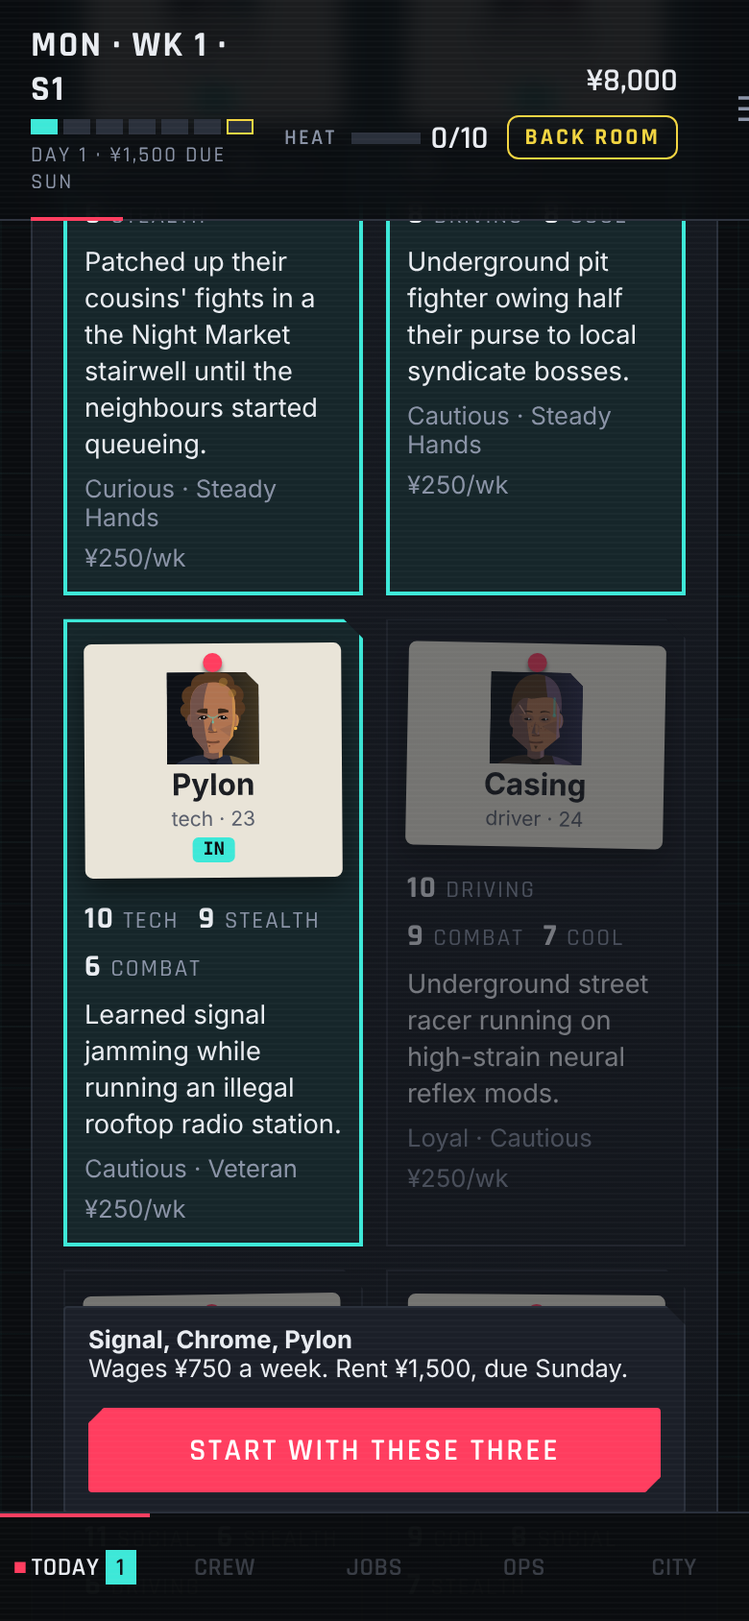
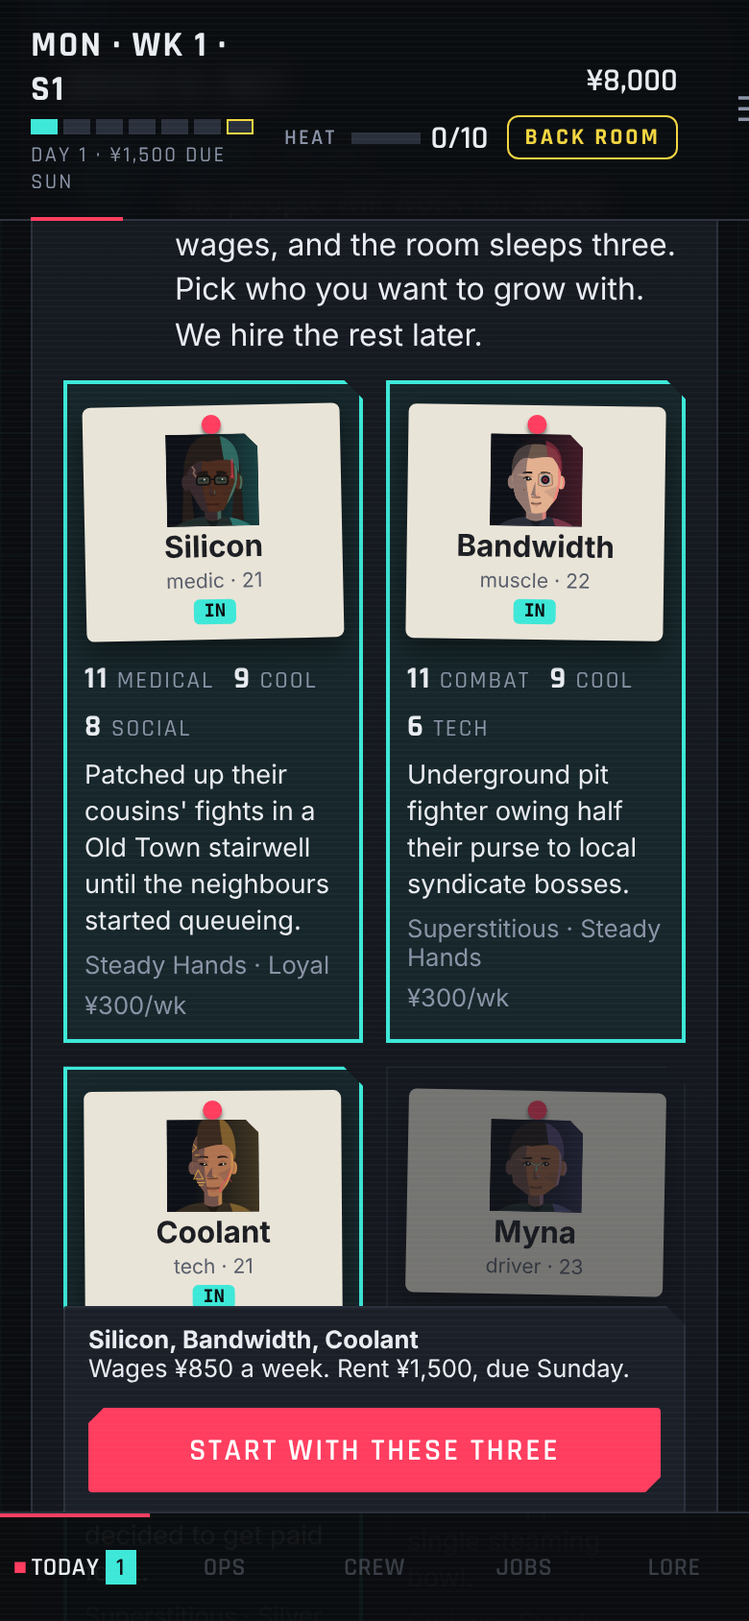
Ops second in the tabs; City renamed Lore, its Lore section renamed History
Tabs: Today, Ops, Crew, Jobs, Lore. Lore's sections: Districts, Clients, Who's who, History.
Screenshots re-taken.

diff --git a/src/ui/app.js b/src/ui/app.js
@@ -73,10 +73,10 @@ import { freelancerAsCrew, shareOf, MAX_FREELANCERS_PER_JOB } from '../core/free
 let state;
 let screen = 'inbox';
 let cityDistrict = null; // district card open on the Ops map
-let cityTab = 'districts'; // which City section is showing (CITY_TABS)
-let loreDistrict = null; // the district read in full on City › Districts
+let cityTab = 'districts'; // which Lore section is showing (LORE_TABS)
+let loreDistrict = null; // the district read in full on Lore › Districts
 let cityCardDue = false; // scroll a newly opened district card into view after drawing
-let loreDue = false; // scroll City › Districts to the district opened from Ops
+let loreDue = false; // scroll Lore › Districts to the district opened from Ops
 let cityMapDue = false; // scroll the map into view after drawing (a crew's district picked in the list)
 let openMessageId = null;
 let sidePlan = null; // { taskId, crew: [] } while planning a side task (Jobs tab)
@@ -161,10 +161,10 @@ function onClick(e) {
     // A crew's district in the list: light it on the map (scrolled into view) and narrow the list to it.
     case 'city-show': cityDistrict = cityDistrict === id ? null : id; cityMapDue = !!cityDistrict; break;
     case 'city-tab': cityTab = id; break;
-    // City › Districts: open one district's full write-up (tap again to fold it); from the Ops card, go there.
+    // Lore › Districts: open one district's full write-up (tap again to fold it); from the Ops card, go there.
     case 'ops-district': screen = 'ops'; cityDistrict = id; cityMapDue = true; break;
     case 'lore-district': loreDistrict = loreDistrict === id ? null : id; break;
-    case 'about-district': screen = 'city'; cityTab = 'districts'; loreDistrict = id; loreDue = true; break;
+    case 'about-district': screen = 'lore'; cityTab = 'districts'; loreDistrict = id; loreDue = true; break;
     case 'open-message': {
       openMessageId = id;
       const msg = state.inbox.find((m) => m.id === id);
@@ -577,10 +577,10 @@ function render() {
 
     <nav class="nav" aria-label="Main">
       ${navButton('inbox', 'Today', unread, 'unread')}
+      ${navButton('ops', 'Ops', calls(), 'calling')}
       ${navButton('crew', 'Crew')}
       ${navButton('jobs', 'Jobs', state.jobs.length, 'open')}
-      ${navButton('ops', 'Ops', calls(), 'calling')}
-      ${navButton('city', 'City')}
+      ${navButton('lore', 'Lore')}
     </nav>
 
     <main class="main ${wide ? 'main--wide' : ''} ${!state.activeMission && screen === 'jobs' && plan ? 'main--split' : ''}">${state.activeMission ? renderMission() : `${keptBanner()}${renderScreen()}`}</main>
@@ -687,7 +687,7 @@ function renderDayCue(cue) {
     </div>`;
 }
 
-// While the founders are being picked there's nothing to see on Crew, Jobs or City: those tabs are
+// While the founders are being picked there's nothing to see on Crew, Jobs, Ops or Lore: those tabs are
 // off, Today shows the pick, and Save stays open so another slot can still be loaded.
 const FOUNDING_TABS = ['inbox', 'settings'];
 
@@ -713,7 +713,7 @@ function renderScreen() {
   }
   if (screen === 'jobs') return sidePlan ? renderSidePlan() : renderJobs();
   if (screen === 'ops') return renderOpsScreen();
-  if (screen === 'city') return renderCity();
+  if (screen === 'lore') return renderLore();
   if (screen === 'settings') return renderSettings();
   return '';
 }
@@ -1859,12 +1859,12 @@ function renderSidePlan() {
 const trustTone = (t) => (t >= 60 ? 'good' : t >= 40 ? 'mid' : 'bad');
 const TRUST_NOTE = 'Finished jobs build trust; aborts and "client unhappy" choices cost it. High trust pays up to 15% more; below 20, a client stops calling. Trust drifts back towards neutral each week.';
 
-/** Jobs tab: the clients as a strip of chips under the board. Full write-ups are on City. */
+/** Jobs tab: the clients as a strip of chips under the board. Full write-ups are on Lore. */
 function renderClients() {
   return `
       <h2>Clients</h2>
       <div class="infoline"><p class="muted small">Where you stand with each.</p>${infoButton('clients', 'About client trust')}</div>
-      ${infoText('clients', `${TRUST_NOTE} Who they are: City tab.`)}
+      ${infoText('clients', `${TRUST_NOTE} Who they are: the Lore tab.`)}
       <ul class="clientstrip">
         ${CLIENTS.map((c) => {
           const t = trustOf(state, c.id);
@@ -1873,7 +1873,7 @@ function renderClients() {
       </ul>`;
 }
 
-/** City tab: who each client is, with where you stand. */
+/** Lore › Clients: who each client is, with where you stand. */
 function renderClientCards() {
   return `
       <ul class="list list--plain">
@@ -2421,12 +2421,12 @@ function districtCard(key) {
             : '<p class="small muted">Nobody here is hiring crews like yours yet.</p>';
       })()}
       ${activeRumour(state)?.district === key ? `<p class="talk-tag">Street talk: ${esc(activeRumour(state).text)}</p>` : ''}
-      <button class="linkbtn citycard__about" data-action="about-district" data-id="${esc(key)}">About ${esc(NAMES.districtsInText?.[key] ?? cityName(key))} on City ›</button>
+      <button class="linkbtn citycard__about" data-action="about-district" data-id="${esc(key)}">About ${esc(NAMES.districtsInText?.[key] ?? cityName(key))} on Lore ›</button>
     </div>`;
 }
 
 /**
- * City › Districts (2026-11-06, when Ops became its own tab): the city's places as a book, each
+ * Lore › Districts (2026-11-06, when Ops became its own tab and City became Lore): the city's places as a book, each
  * led by its picture (ui/districtArt.js), with the write-up a tap away. Locked districts are a
  * line each, with what the street says about them.
  */
@@ -2483,11 +2483,11 @@ function renderOpsScreen() {
     </section>`;
 }
 
-/** City sections: the city as a book (the live map is on Ops). */
-const CITY_TABS = { districts: 'Districts', clients: 'Clients', factions: "Who's who", lore: 'Lore' };
+/** Lore's sections: the city as a book (the live map is on Ops). The tab was City until 2026-11-06. */
+const LORE_TABS = { districts: 'Districts', clients: 'Clients', factions: "Who's who", history: 'History' };
 
-function renderCity() {
-  const tab = CITY_TABS[cityTab] ? cityTab : 'districts';
+function renderLore() {
+  const tab = LORE_TABS[cityTab] ? cityTab : 'districts';
   const groups = [...new Set(FACTIONS.map((f) => f.group))];
   const body = {
     districts: renderDistrictLore,
@@ -2506,7 +2506,7 @@ function renderCity() {
           </ul>
         </div>`).join('')}
       </div>`,
-    lore: () => `
+    history: () => `
       <div class="cols2">
       <div>
       <h2>Everyone knows</h2>
@@ -2521,8 +2521,8 @@ function renderCity() {
   return `
     <section class="panel">
       <h1 class="cityhead">${esc(NAMES.city)} <span class="muted">燈籠灣</span> <span class="muted small">2057</span></h1>
-      <div class="subtabs" role="group" aria-label="City sections">
-        ${Object.entries(CITY_TABS).map(([k, label]) => `<button class="subtab ${k === tab ? 'is-on' : ''}" data-action="city-tab" data-id="${k}" aria-pressed="${k === tab}">${esc(label)}</button>`).join('')}
+      <div class="subtabs" role="group" aria-label="Lore sections">
+        ${Object.entries(LORE_TABS).map(([k, label]) => `<button class="subtab ${k === tab ? 'is-on' : ''}" data-action="city-tab" data-id="${k}" aria-pressed="${k === tab}">${esc(label)}</button>`).join('')}
       </div>
       ${body}
     </section>`;

diff --git a/src/ui/districtArt.js b/src/ui/districtArt.js
@@ -1,6 +1,6 @@
 // District pictures (DESIGN.md, 2026-10-28/29; option C of the City map session): a street
 // scene per district, drawn like the portraits: flat colour planes and hard light, the district
-// gang's light from the right, no outlines. Each leads its district's card on City › Districts
+// gang's light from the right, no outlines. Each leads its district's card on Lore › Districts
 // (2026-11-06; it was on the map's district card before Ops had its own tab). Pure strings, no DOM.
 //
 // The Docks: the sky lit red from the right, Lantern Bay across the harbour (Glass Heights'

diff --git a/ART.md b/ART.md
@@ -43,7 +43,7 @@ A street terminal in a wet neon city, after Cyberpunk 2077's interface and Citiz
 - **Gauges:** segmented (4px on, 1px off).
 - **Motion:** a blink, a breathing light, a new-day flash. Nothing loops fast; everything stops for reduced motion.
 - **City map** (`src/ui/citymap.js`, fed by `cityMap()` in `src/ui/app.js`, on the Ops tab since 2026-11-06; rebuilt 2026-11-05 as the command centre's neon map, after the owner's mock-up `drafts/prototypes/command-centre.html`; DESIGN.md): Lantern Bay as a compact tactical map, 330×290, that fits the width and never moves. The island's districts are faceted, straight-edged shapes washed in their gang's light (Brass Anchor sodium `#f2d541`, Red Lantern `#ff3d5f`, Silver Fan violet `#b48cff`, Veridian-Apex cyan `#3de8d8`, Racing Association orange `#ff9a3d`): 9% over `--panel-2`, 15% with a hall of ours, 24% when picked. They meet at 2.5px seams in the page colour, with a faint 9-unit block grid inside; locked districts are hatched in the line colour. The Amber Reach sits in the harbour, the Docks and the Silt on the mainland; HARBOUR in small spaced grey caps. A dashed violet line is the maglev through the Amber Reach; a dotted sodium line is the ferry. No coast outline, no landmarks on the map. Each district's plate is a dark panel (88% page colour, 1px line border, cyan when picked) with the gang's colour as a 16×2 tab, the name in display caps, and one line under it ("⌂ 7 HERE · 2 JOBS · HEAT 4", amber from heat 3, red from 6); locked plates are small, one muted line. **For glancing:** heat is a radial glow round the plate (sodium, amber, red; 20 + 3 × heat units); crews out are face tokens (the portraits in a circle, 14 units, a cyan ring with a soft glow; up to three overlapping, then +n) on a dotted cyan route from their hall, just off the plate; a call rings them sodium with a ring that breathes outwards; side work is a smaller grey-ringed token; a raid warned is a red ring round the hall's plate with a second breathing outwards and a red RAID FRI tag over the plate; street talk is a small blinking sodium square beside the plate. A legend under the map (Crew · Calling · Raid warned · Hall). Only the call and raid rings move (and the picked district's gentle light); everything is still for reduced motion. New districts are one entry in `DISTRICTS` (shape and plate spot). **Crew-out mini maps** (`ui/minimap.js`, 2026-11-06): a 120 × 80 still of the job's site in a 1px line frame, labels hidden; the route walked as a 3-unit cyan line, the rest a dashed grey one; the crew as cyan dots (7 units, a dark edge) clustered where they stand; grey rings on the perch and at the van; a waiting call turns the dots sodium with a sodium ring that breathes outwards (still for reduced motion).
-- **District pictures** (`src/ui/districtArt.js`; on City › Districts since 2026-11-06, each district's card led by its picture): a street scene per district, 720×300, drawn like the portraits (flat planes, hard light, the gang's light from the right, no outlines). One per open district, each with one of your crew in it (hood up, rifle across the back) and its landmarks: the **Docks** (Red Lantern red: cranes with cyan and violet neon, container AHX 409, red lanterns, a flying car, Hong Kong neon across the harbour); **Old Town** (Brass Anchor sodium: tenements with caged balconies, laundry and air-con boxes, Auntie Fung's tea shop 芬記涼茶 with a cup of bitter tea on the step, the shrine of To Dei Gung 土地, the mahjong parlour, Block 9's rusted stairwell, joss paper burning in a bin); the **Night Market** (Silver Fan violet: holo-ads, signs crowding the lane, the Neon Dragon dai pai dong's wok fire, Madam Rao's saris on a rail, the third-floor mahjong parlour, stalls under string lights, a crowd under lit umbrellas); **Glass Heights** (Veridian-Apex cyan: glass towers in a fine grid, the Central Tower's crown and logo, the Glass-Bridge Promenade, air vents, planters, security drones scanning the plaza, sky traffic); the **Basin** (Racing Association orange: race night under floodlight towers, horses on the turn in silks, the Old Stand of 1891, the odds board in neon under 燈籠馬場 in pink, camera drones pacing the horses with a red recording light, paper slips in the air). Mahjong parlours share one window drawing. Chinese lettering uses the system's CJK font, as the city's name does.
+- **District pictures** (`src/ui/districtArt.js`; on Lore › Districts since 2026-11-06, each district's card led by its picture): a street scene per district, 720×300, drawn like the portraits (flat planes, hard light, the gang's light from the right, no outlines). One per open district, each with one of your crew in it (hood up, rifle across the back) and its landmarks: the **Docks** (Red Lantern red: cranes with cyan and violet neon, container AHX 409, red lanterns, a flying car, Hong Kong neon across the harbour); **Old Town** (Brass Anchor sodium: tenements with caged balconies, laundry and air-con boxes, Auntie Fung's tea shop 芬記涼茶 with a cup of bitter tea on the step, the shrine of To Dei Gung 土地, the mahjong parlour, Block 9's rusted stairwell, joss paper burning in a bin); the **Night Market** (Silver Fan violet: holo-ads, signs crowding the lane, the Neon Dragon dai pai dong's wok fire, Madam Rao's saris on a rail, the third-floor mahjong parlour, stalls under string lights, a crowd under lit umbrellas); **Glass Heights** (Veridian-Apex cyan: glass towers in a fine grid, the Central Tower's crown and logo, the Glass-Bridge Promenade, air vents, planters, security drones scanning the plaza, sky traffic); the **Basin** (Racing Association orange: race night under floodlight towers, horses on the turn in silks, the Old Stand of 1891, the odds board in neon under 燈籠馬場 in pink, camera drones pacing the horses with a red recording light, paper slips in the air). Mahjong parlours share one window drawing. Chinese lettering uses the system's CJK font, as the city's name does.
 - **Icons** (`src/ui/icons.js`): line icons drawn like Joss's face, a 24-unit grid with 1.8 strokes, round caps and joins, no fills, in the text's colour (`currentColor`). One idea each: combat a blade, stealth an eye struck through, tech a chip, social a speech bubble, driving a steering wheel, medical a cross, cool a steady pulse, a person as head and shoulders (crew sizes on side-work cards show one figure and the number, "[figure] 4"). **Gear** (2026-10-28) has one icon per item type, the same way: a rifle with its scope, a handgun, a plated vest, a quadcopter drone, a deck, a bag with a cross, a key for lockpicks, a head with a chip for implants; always beside the item's name. They sit beside their word (rule 1) wherever a stat is a label you scan (dossiers, the picker, the crew list, the profile's stats), not inside sentences. **One exception, the job board's cards** (2026-10-28): the key stats show as icons alone, because the same words are one tap away on the planning screen; each icon still carries its name for screen readers and as a hover title on desktop, and the reputation (i) above the board holds the key.
 - **Risk corner** (job board cards, 2026-10-28, owner's call after Cyberpunk 2077's inventory slots): a thin bracket inside the card's top-right corner, 4px in, 14px each way, 1.5px lines at 70% opacity, coloured by Joss's read: low `#5fe0a5`, mid `--warn`, high `#ff9a5a`, extreme `--danger`. All the same size: the colour alone tells the levels apart on the card (the owner's call); the word is on the planning screen, for screen readers and as a hover title. Flags on a card are outlined boxes in display caps, only when something is unusual.
 - **Site plans** (`src/data/sites.js`, drawn by `src/ui/siteplan.js`): the watch screen's map of a job, one per district, from above at night on the same dark ground as the city map. Flat shapes, no outlines on cover; buildings `#171b24` with a grey edge; the target room a dashed signal-red outline; the crew's route a cyan line with ring nodes; overwatch a sodium perch; the rifle's sight a faint sodium wedge, the drone's cyan. Each district reads at a glance: rust and teal containers and the harbour (Docks), lit windows, laundry lines and an alley of steps (Old Town), neon stalls and a grey crowd (Night Market), a cyan-edged glass tower over a planted plaza (Glass Heights), the cream racecourse oval and timber stables (Basin). Labels are small grey caps; the target's is white. Cover for fights is drawn like the containers, flat blocks in the district's muted tones with no outline (bins, carts, crates, a horse trailer, hay), and furniture inside a target like the desks. **In a fight** (command fights, 2026-10-30): the camera frames the fight; tokens grow a little and show the runner's face in a circle; everyone has a small shield for their cover (cyan for the crew, pink for the guards; filled for full, half-filled for half) or a sodium OPEN tag; each guard's aim is a dashed signal-red line with its chance in a dark red tag; orders given are cyan lines (dotted for a flank, dashed for a move, green for a patch), a hunker is a dashed cyan ring, the picked runner a solid cyan ring, the target guard a dashed sodium ring, free spots dotted circles.

diff --git a/docs/design/2026-11.md b/docs/design/2026-11.md
@@ -4,6 +4,7 @@ Part of the decision log kept in `DESIGN.md`. Supersede with a new row at the to
 
 | Date | Decision | Why | Rejected alternatives |
 | --- | --- | --- | --- |
+| 2026-11-06 | **Ops comes second in the tabs, and City is renamed Lore (same day, before merging; refines the row below).** The tabs read Today · Ops · Crew · Jobs · Lore. Lore's sections: Districts, Clients, Who's who, **History** (the old Lore section: Everyone knows, the short history; renamed so it isn't Lore › Lore). The section is still headed Lantern Bay 燈籠灣 2057. Links read "About the Docks on Lore ›". | Owner: "is it misleading should the whole section be Lore" and "should Ops be higher". City read as the live map, which is what the split was for; Lore says it's for reading. Ops is where you go most after Today (calls, crews out, raids), so it sits next to it, and the reference goes last. Crew and Jobs keep their order so nothing else moves. | A sub-section named City inside Lore (Districts says what's in it); reordering Crew and Jobs too. |
 | 2026-11-06 | **Ops becomes its own tab; City becomes the lore book again (built; no save change; supersedes the 2026-11-05 call to keep the command centre on City).** Five tabs: Today · Crew · Jobs · **Ops** · City. **Ops** is the command centre as it was on City's Map tab: the neon map, the picked district's card (live only: side, turf, heat, our hall and who lives there, grudges, jobs here, street talk, and "About the Docks on City ›"), Out now and the city tonight. It carries the count of calls waiting; sending a crew out, handing a call back and Today's "crews out" line all go there. **City** has Districts (new, first), Clients, Who's who and Lore. **Districts:** a card per district led by its picture (`ui/districtArt.js`, all five drawn 2026-10-29), the home district first, with its name, side, turf and pitch; tap for the rest (who runs it, police, at 3am, custom, landmarks, kinds of work, "See it on Ops ›"). The locked three follow with their write-up and what the street says (no picture yet). The pictures leave the Ops card. On a phone the tab labels are set a little tighter so five fit. | Owner: City "more seems like lore"; "make ops a separate one and make city a proper lore section like it was before. We can bring those portraits back in for the areas." The live parts and the reading parts were sharing one tab; split, Ops stays short on a phone and the pictures get room. Clients and Who's who stay on City although they show trust and grudges: they're who people are, read when deciding. | Renaming City to Ops and moving Lore behind ☰ (hides the lore); keeping the pictures on the Ops card too (pushes the map's list down a picture's height on a phone); one district at a time behind chips (the pictures are the point: a scroll of them reads like a guidebook). |
 | 2026-11-06 | **Buying a hall and the work board (built; save v44).** **Buying** (`core/halls.js buyHall`, `HALL_BUY.weeks` 26): a hall can be bought for 26 weeks of its current rent, once. Its rent goes to 0 and expanding it adds none (`hall.owned`). Every hall can be bought, the home hall too. **The work board** (a 2 × 2 room, ¥8,000, `core/broker.js`): each Sunday, before the bills, a hall with one brokers its district's small work (its routine and rookie jobs, never an opening job) to street freelancers: as many as the hall's level, each paying the tong 20% of the job's pay. It's background work: nothing on the tong's board is taken, and nobody of ours goes. 1 in 10 goes wrong (no fee, that client's trust −2). Each week there's a 15% chance a freelancer who did well becomes a rookie recruit lead. A shut hall brokers nothing. Sunday's message says what each board brought. **Measured** (`scripts/sim-phase2.mjs`, 16 seeds, the careful player, week 52): opening halls alone ¥13,290 and 31% broke; with work boards ¥16,230 and 25%; with work boards and buying ¥16,840 and 25%, and a third hall more often (12 halls bought, 31 boards built). The sim's player only acts with money to spare (a board with a week of bills left, a hall with two weeks). Tests: `tests/hallbuy.test.js`. | The owner: buy rather than rent ("for a higher cost potentially": 26 weeks' rent), and passive income as a tong would have it: "middle man jobs ... these rookies and solo guys would be coming here to take on work that we give them", and not the jobs on the board ("so it doesn't compete with our workable jobs"). | A shop, a back-room game or a lending desk ("the rest don't really make sense for a tong"); brokering the board's own offers (it would compete with the player's crews); buying in place of the deposit (a much dearer opening). |
 | 2026-11-06 | **Balance tuning (built): hall rents halved; raids from heat 6 (was 7) and grudge 5 (was 6); grudges fade every other Sunday (`GRUDGE.fadeEvery` 2).** Re-measured (`scripts/sim-phase2.mjs`, 16 seeds): a careful player who opens halls ends the year with a median ¥13,290 and 31% broke (was ¥1,440 and 50%), the same as with one hall. Raids still don't reach a careful player (0 in 16 years; heat stays under 6, and no gang grudge reached 5), and a loud one sees 4 (was 2). Next, by the owner: buying a hall for 26 weeks' rent (then no rent), and a work board room where street freelancers take small brokered work for the tong's cut, never the player's own board jobs. | The owner's answers to the balance pass: halve the rent, raids "a little easier", buy rather than rent, and passive income as a tong would have it ("middle man jobs ... these rookies and solo guys would be coming here to take on work"), not a shop. | Making the hall a shop, a gambling room or a lending desk ("the rest don't really make sense for a tong"); more beds (measured: more hires, more wages, worse). |

diff --git a/DESIGN.md b/DESIGN.md
@@ -65,7 +65,7 @@ The log is split by date into `docs/design/` (newest file first). **Add new rows
 
 | File | Rows | Themes |
 | --- | --- | --- |
-| [`docs/design/2026-11.md`](docs/design/2026-11.md) | 72 | 2026-11: Ops as its own tab and City as the lore book again; buying a hall and the work board; balance tuning (rents, raids); a Phase 2 balance pass, measured; opening jobs built; the opening jobs outlined, replaying a day skipped; mini maps on the crew-out cards; building up a hall (the grid and defence pieces, the build screen, defences lowering a raid's threat, rooms, the den and the cyber doc, the auto turret); the landmarks beside the halls and raids; a hall map per district; gang raids and their canon; the command centre's map, part 2 (the neon map); raids on the halls (police first) and their canon; the plan bar beside the job list; City as the command centre (part 1); heat per district; halls (the safehouse as one of several; moving in takes the day); Joss's lean picks and what a job gives a runner; crews out made visible; districts as presence and a command centre (proposed); Joss's warmer lines and voice in canon; the week's first offer is routine; the weekly rhythm, crew standards and leads; routine work on a bigger board; lore reading and review; the fame sim's cash baseline re-measured for the bigger job pool; new named people and a canon check; quality guidance in the job prompt; routine work in the job prompt; the board growing with the tong, jobs' days; away crews calling in, day by day; the tong and its ranks; the tong direction and its Phase 1 calls; hands-off on every job; walking away from a decision pays nothing; runner record; milestones; a prompt for drafting jobs outside a session; a job checker; fame, standing, paths and pro-to-veteran promotion; the add-lore skill; traits as chips, synergies; the job takes the full screen; the job's map fills the height; the feed keeps following, a finished job keeps its view; the feed column matches the map; the fight camera frames everyone; the fight panel as a compact roster; Elite made rarer; the fight on a phone; fame's payoffs (named offers, the fame pay ask, better recruits); a shorter planning read |
+| [`docs/design/2026-11.md`](docs/design/2026-11.md) | 73 | 2026-11: Ops as its own tab (second) and City renamed Lore, the lore book again; buying a hall and the work board; balance tuning (rents, raids); a Phase 2 balance pass, measured; opening jobs built; the opening jobs outlined, replaying a day skipped; mini maps on the crew-out cards; building up a hall (the grid and defence pieces, the build screen, defences lowering a raid's threat, rooms, the den and the cyber doc, the auto turret); the landmarks beside the halls and raids; a hall map per district; gang raids and their canon; the command centre's map, part 2 (the neon map); raids on the halls (police first) and their canon; the plan bar beside the job list; City as the command centre (part 1); heat per district; halls (the safehouse as one of several; moving in takes the day); Joss's lean picks and what a job gives a runner; crews out made visible; districts as presence and a command centre (proposed); Joss's warmer lines and voice in canon; the week's first offer is routine; the weekly rhythm, crew standards and leads; routine work on a bigger board; lore reading and review; the fame sim's cash baseline re-measured for the bigger job pool; new named people and a canon check; quality guidance in the job prompt; routine work in the job prompt; the board growing with the tong, jobs' days; away crews calling in, day by day; the tong and its ranks; the tong direction and its Phase 1 calls; hands-off on every job; walking away from a decision pays nothing; runner record; milestones; a prompt for drafting jobs outside a session; a job checker; fame, standing, paths and pro-to-veteran promotion; the add-lore skill; traits as chips, synergies; the job takes the full screen; the job's map fills the height; the feed keeps following, a finished job keeps its view; the feed column matches the map; the fight camera frames everyone; the fight panel as a compact roster; Elite made rarer; the fight on a phone; fame's payoffs (named offers, the fame pay ask, better recruits); a shorter planning read |
 | [`docs/design/2026-10-28-to-30.md`](docs/design/2026-10-28-to-30.md) | 54 | 2026-10-28 to 2026-10-30: gear, specialisations, sites, district art, offline play, battles and command fights, sidearms |
 | [`docs/design/2026-10-26-to-27.md`](docs/design/2026-10-26-to-27.md) | 43 | 2026-10-26 to 2026-10-27: mission logs, hands-off runs, traits, situations, side tasks, money pressure, the squad run (approaches, incidents, overwatch, wheels, standby) |
 | [`docs/design/2026-10-24-to-25.md`](docs/design/2026-10-24-to-25.md) | 75 | 2026-10-24 to 2026-10-25: development, renewals, pricing, world canon, progression and the rookie start, UI skin and portraits |

diff --git a/docs/screenshots/README.md b/docs/screenshots/README.md
@@ -22,7 +22,7 @@ Then add a row to the top of the table below and commit the folder with the chan
 
 | Date | Version | Commit | What's new on screen | Folder |
 | --- | --- | --- | --- | --- |
-| 2026-11-06 | Ops gets its own tab; City is the lore book | (`npm run screenshots -- ops-tab`; 19-25 from `scripts/capture-ops-city.mjs`) | 01-18 the usual set, now with 15 Ops and 16 City (Districts) and five tabs along the bottom. On a phone (390), a crew out at the Docks: 19 Ops (the map, Out now); 20 the Docks picked on Ops (its live card, "About the Docks on City ›"); 21 City › Districts, each district led by its picture; 22 Old Town opened (who runs it, police, at 3am, custom, landmarks, kinds of work, "See it on Ops ›"); 23 the districts not open yet; 24 Ops on a computer (1280); 25 City › Districts on a computer, two columns. | [`2026-11-06-ops-tab/`](2026-11-06-ops-tab/) |
+| 2026-11-06 | Ops gets its own tab; City becomes Lore | (`npm run screenshots -- ops-tab`; 19-25 from `scripts/capture-ops-lore.mjs`) | 01-18 the usual set, now with 15 Ops and 16 Lore (Districts) and five tabs along the bottom: Today · Ops · Crew · Jobs · Lore. On a phone (390), a crew out at the Docks: 19 Ops (the map, Out now); 20 the Docks picked on Ops (its live card, "About the Docks on Lore ›"); 21 Lore › Districts, each district led by its picture; 22 Old Town opened (who runs it, police, at 3am, custom, landmarks, kinds of work, "See it on Ops ›"); 23 the districts not open yet; 24 Ops on a computer (1280); 25 Lore › Districts on a computer, two columns. | [`2026-11-06-ops-tab/`](2026-11-06-ops-tab/) |
 | 2026-11-06 | Buy a hall, and a work board | (`npm run screenshots -- hall-buy`; 18-21 from `scripts/capture-hall-buy.mjs`) | 01-17 the usual set. On a phone (390), a level-2 Night Market hall with a work board: 18 Crew › Halls with "Buy the place: ¥26,000, then no rent" (and the home hall's); 19 the Rooms tab with the work board; 20 after buying, the hall marked OURS with no rent and Expand "(no rent)"; 21 Sunday's message with the work board's week. | [`2026-11-06-hall-buy/`](2026-11-06-hall-buy/) |
 | 2026-11-06 | Opening jobs | (`npm run screenshots -- opening-jobs`; 18-22 from `scripts/capture-opening-jobs.mjs`) | 01-17 the usual set. On a phone (390), a tong welcome in the Night Market: 18 Madam Rao's message asking a favour first (Back Rent); 19 Back Rent on the board with the "Opens the Night Market hall" chip; 20 its plan's favour line; 21 Crew › Halls: "Madam Rao wants a favour first: Back Rent, on the board"; 22 once it's done, the Night Market hall ready to open. | [`2026-11-06-opening-jobs/`](2026-11-06-opening-jobs/) |
 | 2026-11-06 | Mini maps on the crew-out cards | (`npm run screenshots -- crewout-maps`; 18-21 from `scripts/capture-crewout-maps.mjs`) | 01-17 the usual set. On a phone (390), a busy evening (a crew at the Docks calling in, another in Glass Heights, side work in Old Town): 18 City's Out now list with a mini map on each crew-out card; 19 the calling crew's card (sodium dots and the call ring); 20 a crew on track (the route walked solid, the rest dashed); 21 Out now on a computer (1280). | [`2026-11-06-crewout-maps/`](2026-11-06-crewout-maps/) |

diff --git a/CHANGELOG.md b/CHANGELOG.md
@@ -7,10 +7,11 @@ Live build: https://marcusw9.github.io/syndicate-manager/
 
 
 
-## 2026-11-06 · Ops gets its own tab; City is the city's book again
-- **A fifth tab, Ops:** the city map, everyone out, raids and calls, and the city tonight (what City's Map tab was). The count of calls waiting is on it, and sending a crew out lands there.
-- **City is about the city again:** a new **Districts** section comes first, a card per district led by its picture (the Docks' cranes, Old Town's alleys, the Night Market's neon, Glass Heights' towers, the Basin's racecourse). Tap one for who runs it, the police, the night, the local custom and the landmarks. The three districts not open yet follow, with what the street says about them. Clients, Who's who and Lore are as they were.
-- A district picked on the Ops map links to its write-up on City, and back.
+## 2026-11-06 · Ops gets its own tab; City becomes Lore
+- **The tabs are now Today · Ops · Crew · Jobs · Lore.**
+- **Ops, the new second tab:** the city map, everyone out, raids and calls, and the city tonight (what City's Map tab was). The count of calls waiting is on it, and sending a crew out lands there.
+- **City is renamed Lore**, and is about the city again: a new **Districts** section comes first, a card per district led by its picture (the Docks' cranes, Old Town's alleys, the Night Market's neon, Glass Heights' towers, the Basin's racecourse). Tap one for who runs it, the police, the night, the local custom and the landmarks. The three districts not open yet follow, with what the street says about them. Then Clients, Who's who, and History (what the Lore section was).
+- A district picked on the Ops map links to its write-up on Lore, and back.
 
 ## 2026-11-06 · Buy a hall, and a work board
 - **A hall can be bought outright:** 26 weeks of its rent, once. After that it pays no rent, and making it bigger adds none. Crew › Halls has "Buy the place" on each hall; a bought hall is marked ours. The home hall can be bought too.

diff --git a/docs/ARCHITECTURE.md b/docs/ARCHITECTURE.md
@@ -290,7 +290,7 @@ function migrate(state) {
 ---
 ## 9. UI
 
-Screens (`screen` var in app.js): `inbox` (Today), `crew`, `jobs`, `ops` (the command centre, 2026-11-06), `city` (the lore book), `settings` (Save); sub-views via module vars (`openMessageId`, `openOperativeId`, `openRecruitId`, `openArmoury`, `plan`, `sidePlan`, `cityTab`…). Founding screen renders first for new games. Nav: Today / Crew / Jobs / City (the command centre: crews out under the map), topbar with cash, heat, tier and a ☰ Save button; dock with Continue. Watch screen is `renderMission`. Main jobs are planned on the squad board (`ui/board.js`).
+Screens (`screen` var in app.js): `inbox` (Today), `crew`, `jobs`, `ops` (the command centre, 2026-11-06), `lore` (the lore book; was `city`), `settings` (Save); sub-views via module vars (`openMessageId`, `openOperativeId`, `openRecruitId`, `openArmoury`, `plan`, `sidePlan`, `cityTab`…). Founding screen renders first for new games. Nav: Today / Crew / Jobs / City (the command centre: crews out under the map), topbar with cash, heat, tier and a ☰ Save button; dock with Continue. Watch screen is `renderMission`. Main jobs are planned on the squad board (`ui/board.js`).
 
 **Small example (`renderClients()`):**
 ```js
